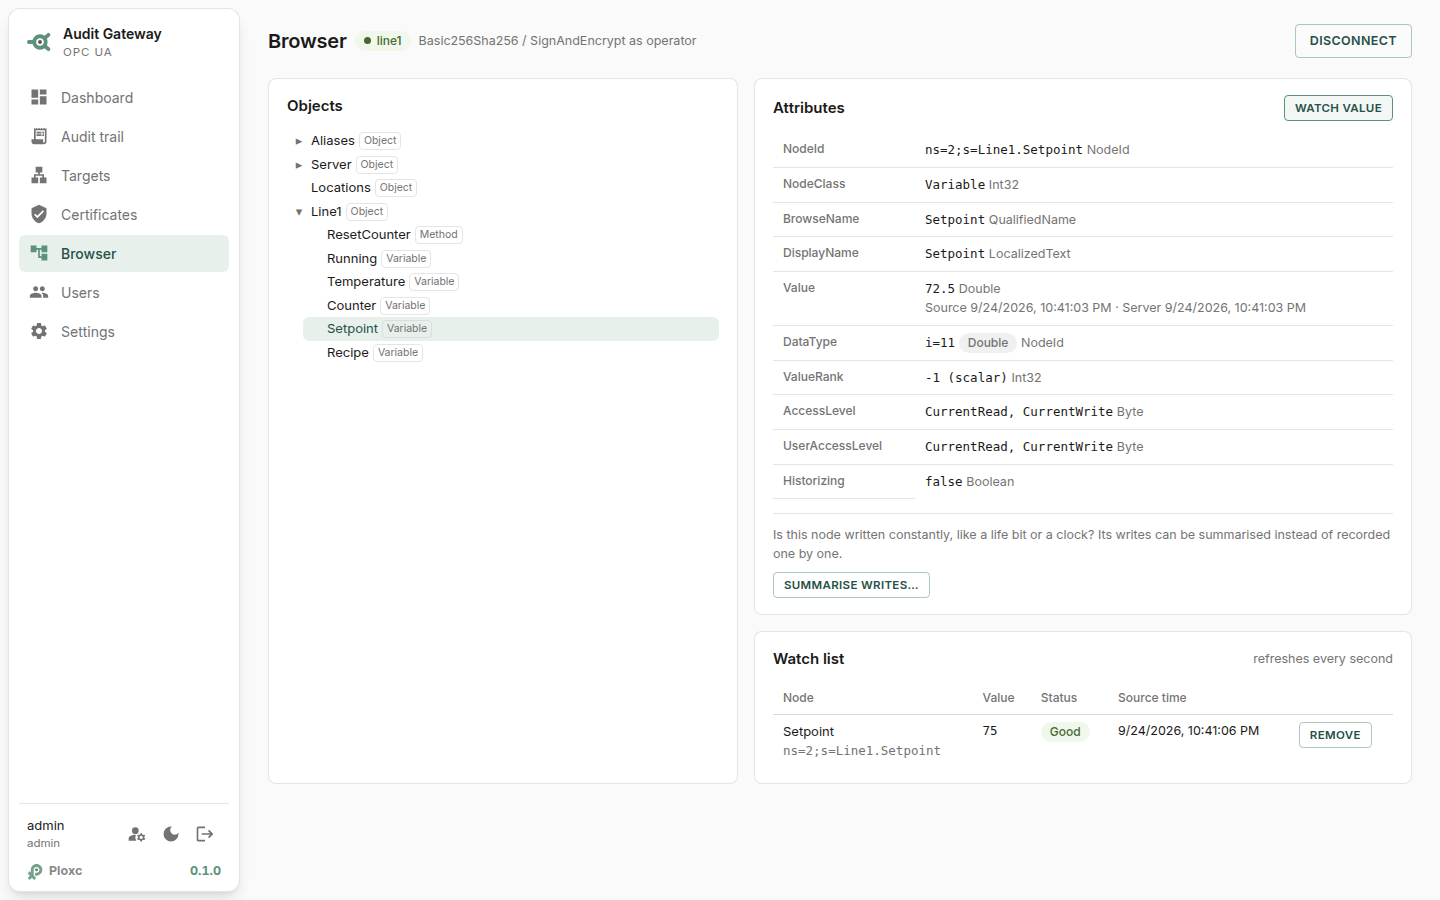
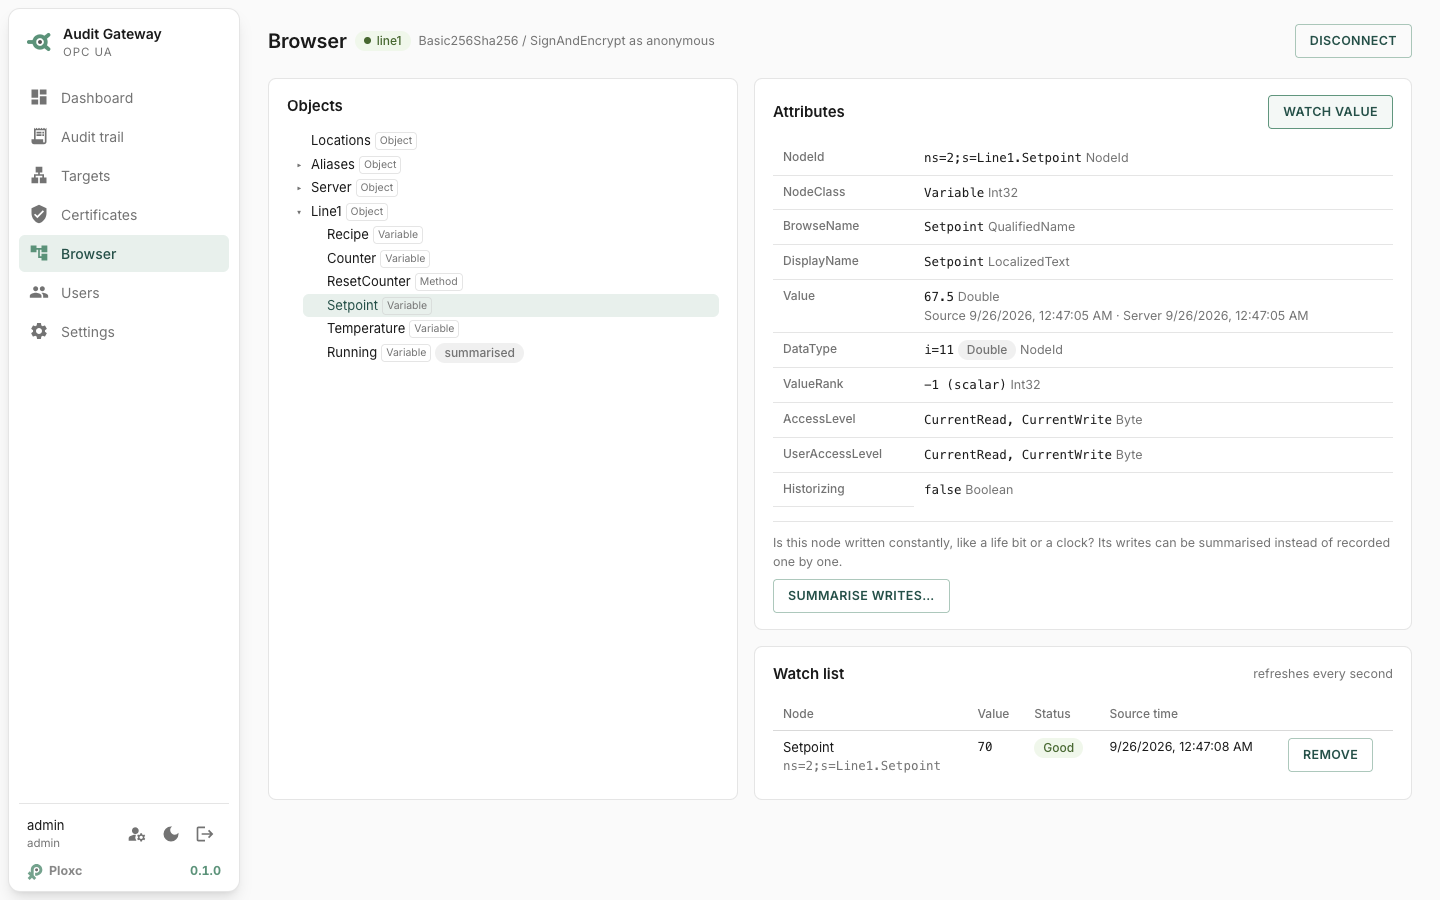
Screenshots: a tool that remakes them, and new ones for the current UI
tools/screenshots starts a fresh gateway in a temporary directory, the demo
PLC and two demo clients writing through it (trust, a summarised group,
fail-open so the trail shows the writes themselves), then Chrome headless
(playwright-core, the installed Chrome) takes each page in light and dark:
`npm install && npm run shoot`. Uses ports 14840/14841/18080, so a gateway
on the usual ports keeps running.

The screenshots showed the UI before today ("Connected", "Discover", no
summarised groups); these are the current one.

Claude-Session: https://claude.ai/code/session_016ruGPs9qJPcKctjwBcNinS

diff --git a/CLAUDE.md b/CLAUDE.md
@@ -26,6 +26,9 @@ image. Merge only when all checks are green.
 - `src/web/ui/`: the web UI, plain JavaScript without a build step, embedded
   in the binary.
 - `examples/`: `demo_plc`, `demo_client`, `stress`.
+- `tools/screenshots/`: remakes the README screenshots (`npm install && npm
+  run shoot`): a fresh gateway, the demo PLC and two demo clients, Chrome
+  headless in light and dark. Rerun it when the UI changes visibly.
 
 ## Rules that are easy to break
 
